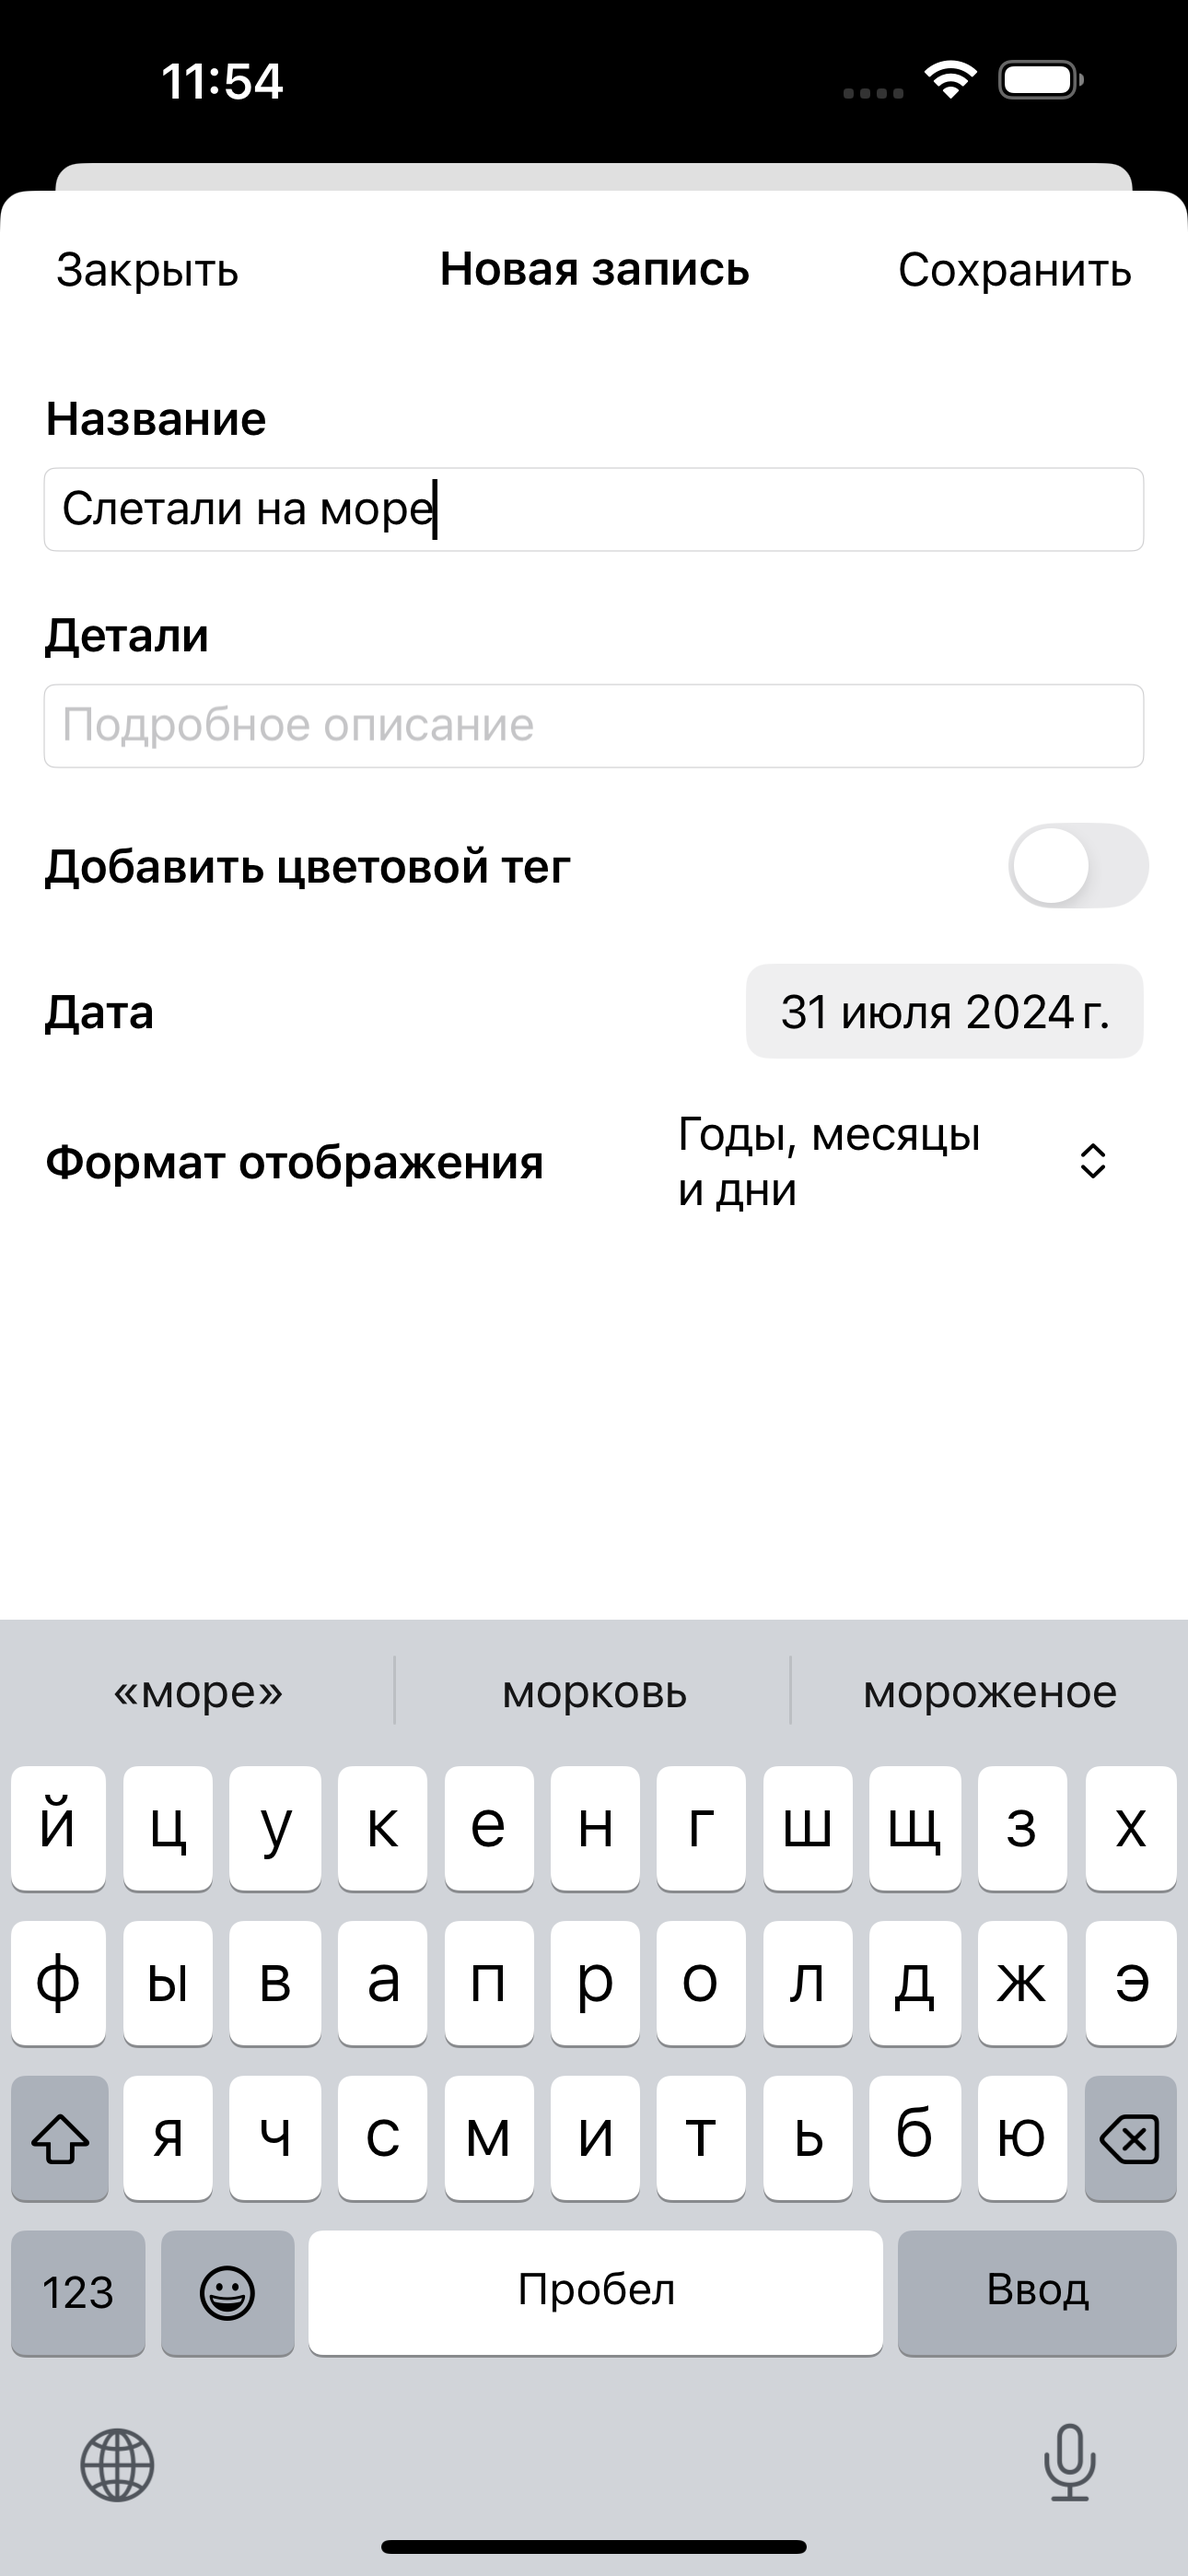
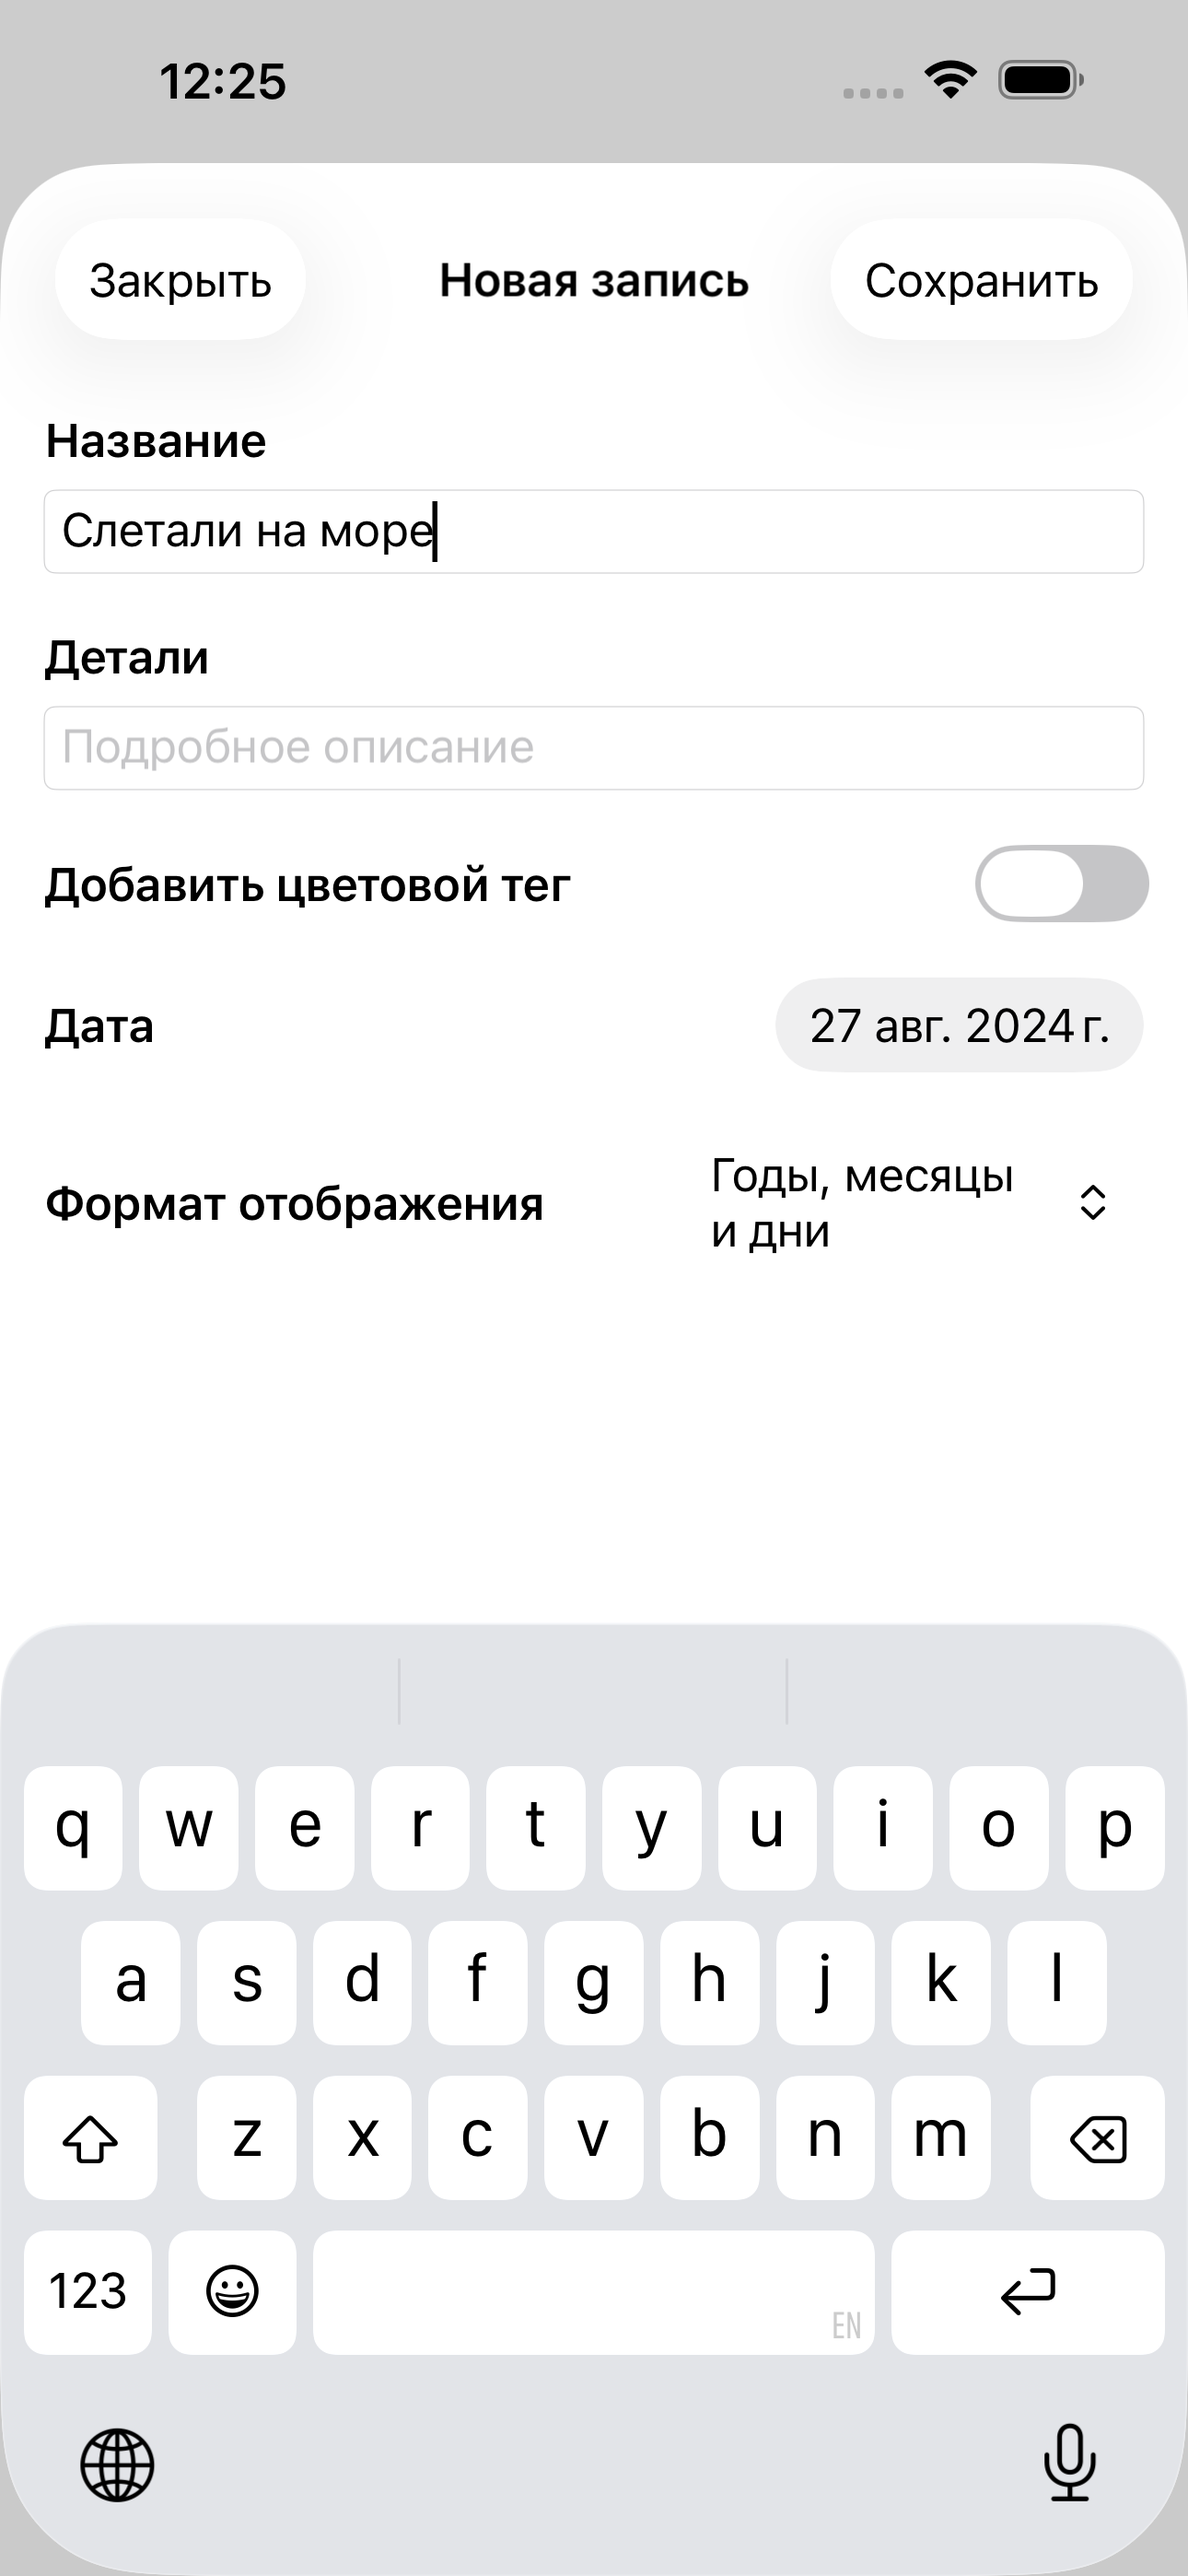
iOS 26 (#18)
* Обновляю стиль кнопок

* Поправил команды в makefile

* Обновил зависимости

* Обновил скриншоты

* Поднял версию до 1.10

* swift 6.2

* Доработал форматирование

Убрал запятые в конце

diff --git a/SwiftUI-DaysTests/DisplayOptionTests.swift b/SwiftUI-DaysTests/DisplayOptionTests.swift
@@ -63,29 +63,29 @@ struct DisplayOptionTests {
     /// Набор общих комбо для проверки .day (всегда .full)
     static let allCombos: [(years: Int, months: Int, days: Int)] = [
         (0, 0, 0), (1, 0, 0), (0, 1, 0), (0, 0, 1), (1, 1, 0), (1, 0, 1), (0, 1, 1), (1, 1, 1),
-        (-1, 0, 0), (0, -1, 0), (0, 0, -1), (-1, -1, 0), (-1, 0, -1), (0, -1, -1), (-1, -1, -1),
+        (-1, 0, 0), (0, -1, 0), (0, 0, -1), (-1, -1, 0), (-1, 0, -1), (0, -1, -1), (-1, -1, -1)
     ]
 
     /// Для .monthDay -> .short, когда одновременно есть месяцы и дни (годы не важны)
     static let monthDayShortCombos: [(years: Int, months: Int, days: Int)] = [
-        (0, 1, 1), (1, 1, 1), (-1, 1, 1), (1, -1, 1), (1, 1, -1),
+        (0, 1, 1), (1, 1, 1), (-1, 1, 1), (1, -1, 1), (1, 1, -1)
     ]
 
     /// Для .monthDay -> .full в остальных случаях (нет одновременных месяцев и дней)
     static let monthDayFullCombos: [(years: Int, months: Int, days: Int)] = [
-        (0, 0, 0), (1, 0, 0), (0, 1, 0), (0, 0, 1), (1, 0, 1), (-1, 1, 0),
+        (0, 0, 0), (1, 0, 0), (0, 1, 0), (0, 0, 1), (1, 0, 1), (-1, 1, 0)
     ]
 
     /// Для .yearMonthDay
     static let ymdAbbreviatedCombos: [(years: Int, months: Int, days: Int)] = [
-        (1, 1, 1), (-1, 1, 1), (1, -1, 1), (1, 1, -1), (-1, -1, -1),
+        (1, 1, 1), (-1, 1, 1), (1, -1, 1), (1, 1, -1), (-1, -1, -1)
     ]
 
     static let ymdShortCombos: [(years: Int, months: Int, days: Int)] = [
-        (1, 1, 0), (1, 0, 1), (0, 1, 1), (-1, 1, 0), (1, -1, 0), (1, 0, -1), (0, -1, 1),
+        (1, 1, 0), (1, 0, 1), (0, 1, 1), (-1, 1, 0), (1, -1, 0), (1, 0, -1), (0, -1, 1)
     ]
 
     static let ymdFullCombos: [(years: Int, months: Int, days: Int)] = [
-        (1, 0, 0), (0, 1, 0), (0, 0, 1), (0, 0, 0), (-1, 0, 0), (0, -1, 0), (0, 0, -1),
+        (1, 0, 0), (0, 1, 0), (0, 0, 1), (0, 0, 0), (-1, 0, 0), (0, -1, 0), (0, 0, -1)
     ]
 }

diff --git a/SwiftUI-Days/Screens/More/MoreScreen.swift b/SwiftUI-Days/Screens/More/MoreScreen.swift
@@ -15,8 +15,7 @@ struct MoreScreen: View {
                             horizontalLayout
                             verticalLayout
                         }
-                        .buttonStyle(.borderedProminent)
-                        .foregroundStyle(.buttonTint)
+                        .daysButtonStyle()
                         appVersionText
                     }
                 }

diff --git a/SwiftUI-Days/Screens/Main/MainScreen.swift b/SwiftUI-Days/Screens/Main/MainScreen.swift
@@ -85,8 +85,7 @@ struct MainScreen: View {
             description: { Text("Create your first item") },
             actions: {
                 addItemButton
-                    .buttonStyle(.borderedProminent)
-                    .foregroundStyle(.buttonTint)
+                    .daysButtonStyle()
             }
         )
         .accessibilityElement(children: .contain)

diff --git a/SwiftUI-Days/Extensions/View+.swift b/SwiftUI-Days/Extensions/View+.swift
@@ -1,0 +1,14 @@
+import SwiftUI
+
+extension View {
+    @ViewBuilder
+    func daysButtonStyle() -> some View {
+        if #available(iOS 26.0, *) {
+            buttonStyle(.glassProminent)
+                .foregroundStyle(.buttonTint)
+        } else {
+            buttonStyle(.borderedProminent)
+                .foregroundStyle(.buttonTint)
+        }
+    }
+}

diff --git a/SwiftUI-Days/Preview Content/Item+.swift b/SwiftUI-Days/Preview Content/Item+.swift
@@ -117,7 +117,7 @@ extension Item {
                 details: ("Плановое хирургическое вмешательство в клинике", "Scheduled surgical procedure at clinic"),
                 timestamp: 1_538_352_000, // 2018-10-01
                 colorTag: nil
-            ),
+            )
         ]
 
         return items.map { item in

diff --git a/SwiftUI-Days/Screens/More/AppDataScreen.swift b/SwiftUI-Days/Screens/More/AppDataScreen.swift
@@ -20,8 +20,7 @@ struct AppDataScreen: View {
                     removeAllDataButton
                 }
             }
-            .buttonStyle(.borderedProminent)
-            .foregroundStyle(.buttonTint)
+            .daysButtonStyle()
         }
         .animation(.default, value: items.isEmpty)
         .alert(

diff --git a/SwiftUI-Days/Screens/CommonViews/SectionTitleView.swift b/SwiftUI-Days/Screens/CommonViews/SectionTitleView.swift
@@ -20,7 +20,7 @@ struct SectionTitleView: View {
     let titleStringKeys: [LocalizedStringKey] = [
         "Title",
         "Details",
-        "Add color tag",
+        "Add color tag"
     ]
     VStack(spacing: 20) {
         ForEach(

diff --git a/README.md b/README.md
@@ -1,5 +1,7 @@
 # SwiftUI-Days
-<img alt="Static Badge" src="https://img.shields.io/badge/Swift_Version-6.0-orange"> <img alt="Static Badge" src="https://img.shields.io/badge/iOS_Version-17-blue">
+[<img alt="Xcode Version" src="https://img.shields.io/badge/Xcode_Version-26.0-blue">](https://developer.apple.com/xcode/)
+[<img alt="Swift Version" src="https://img.shields.io/badge/Swift_Version-6.2-orange">](https://swift.org/)
+[<img alt="iOS Version" src="https://img.shields.io/badge/iOS_Version-17-blue">](https://developer.apple.com/ios/)
 
 - Идея приложения в том, чтобы было удобно запоминать события в указанные даты, а потом легко проверить, сколько прошло дней с момента события.
 - Это вторая версия моего пет-проекта. Первая версия находится [тут](https://github.com/easydev991/Days), и я не публиковал ее в `AppStore`.
